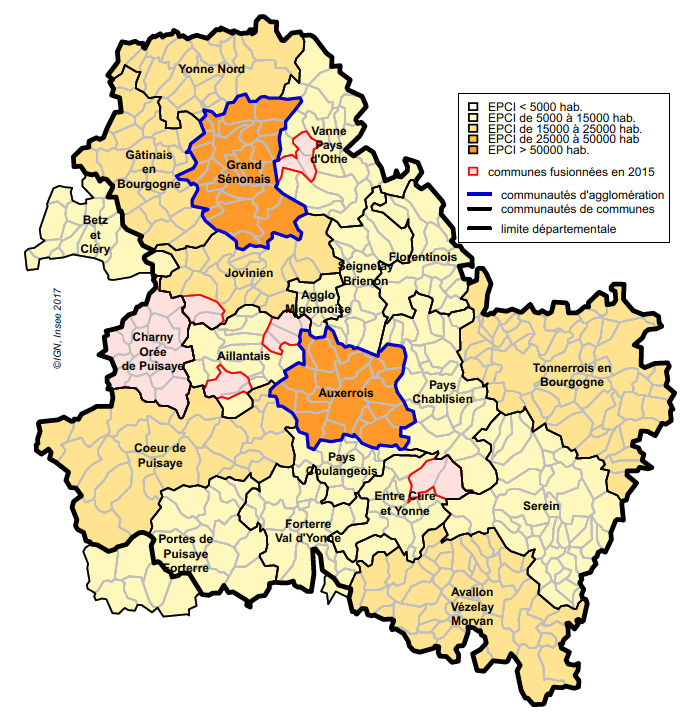
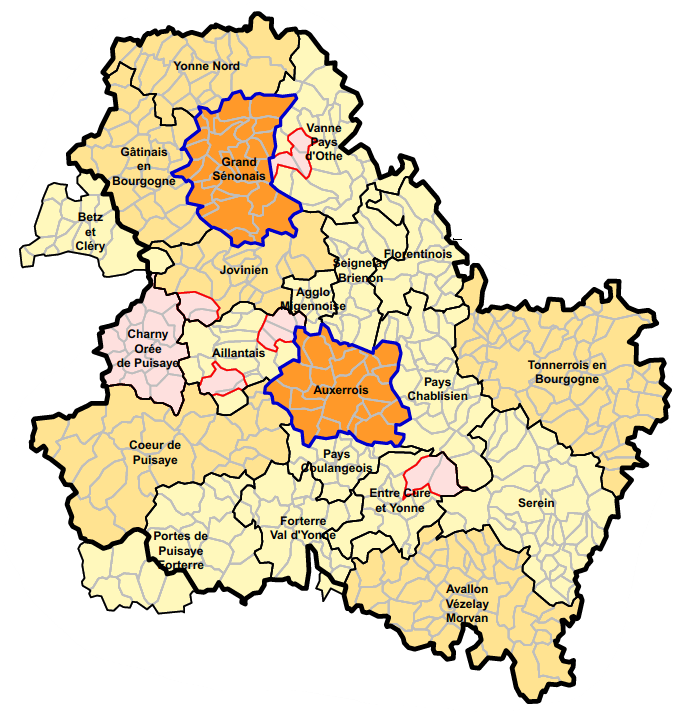
fix(map): finalise la carte hero et nettoie les artefacts

Changed region(s): [[0.0312, 0.0, 0.997, 0.9888], [0.0623, 0.4017, 0.0935, 0.5253], [0.9347, 0.1236, 0.9659, 0.1545]]

diff --git a/src/styles/theme.css b/src/styles/theme.css
@@ -486,33 +486,12 @@ button,
   aspect-ratio: 0.95;
   border-radius: 8px;
   border: 1px solid rgba(106, 115, 120, 0.3);
-  background-image:
-    linear-gradient(160deg, rgba(245, 242, 234, 0.72), rgba(232, 226, 214, 0.72)),
-    url('/images/yonne-reference.png');
-  background-size: cover;
-  background-position: center;
+  background-image: url('/images/yonne-reference.png');
+  background-color: #e8e2d6;
+  background-size: 132% auto;
+  background-position: 20% 55%;
   background-repeat: no-repeat;
-  filter: grayscale(1) contrast(1.08) brightness(0.88) sepia(0.16);
-}
-
-.yonne-map-legend-mask {
-  position: absolute;
-  top: 9%;
-  right: 5.5%;
-  width: 30%;
-  height: 18%;
-  border-radius: 18px;
-  background-image:
-    linear-gradient(180deg, rgba(232, 227, 217, 0.9), rgba(228, 223, 214, 0.9)),
-    url('/images/yonne-reference.png');
-  background-repeat: no-repeat;
-  background-size: auto, 180%;
-  background-position: 0 0, 17% 49%;
-  clip-path: polygon(6% 10%, 94% 2%, 98% 18%, 93% 88%, 9% 96%, 2% 75%, 4% 21%);
-  opacity: 0.99;
-  filter: blur(0.4px);
-  transform: none;
-  pointer-events: none;
+  filter: none;
 }
 
 .map-point-link {